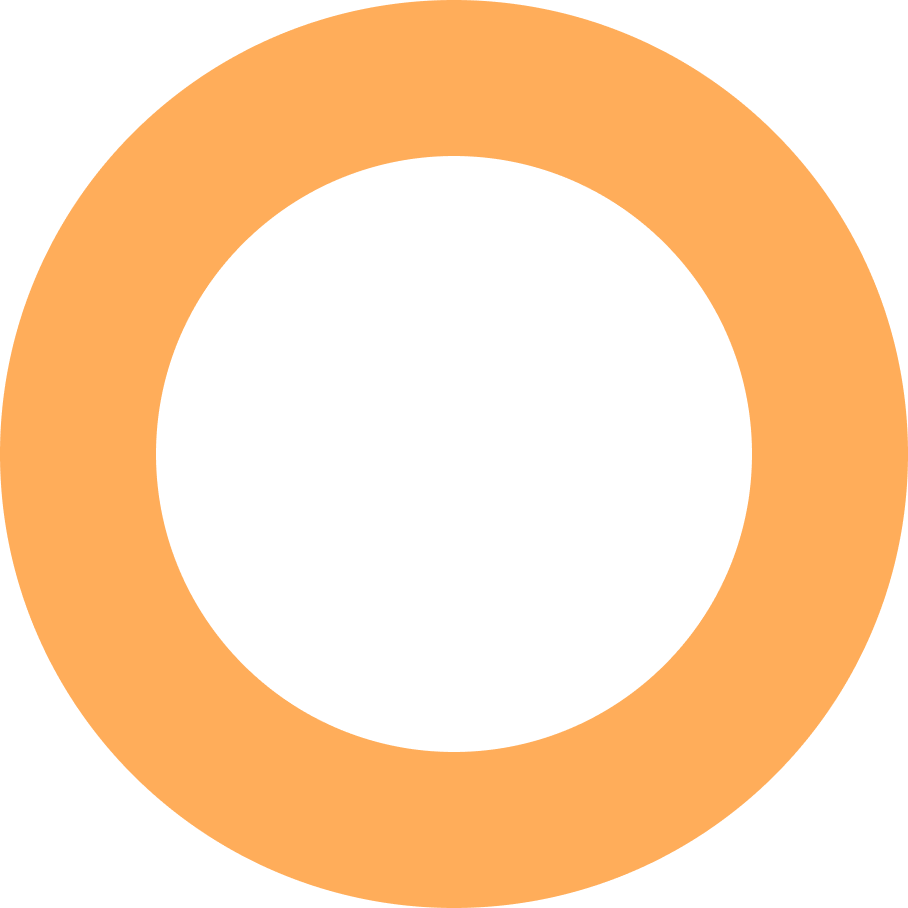
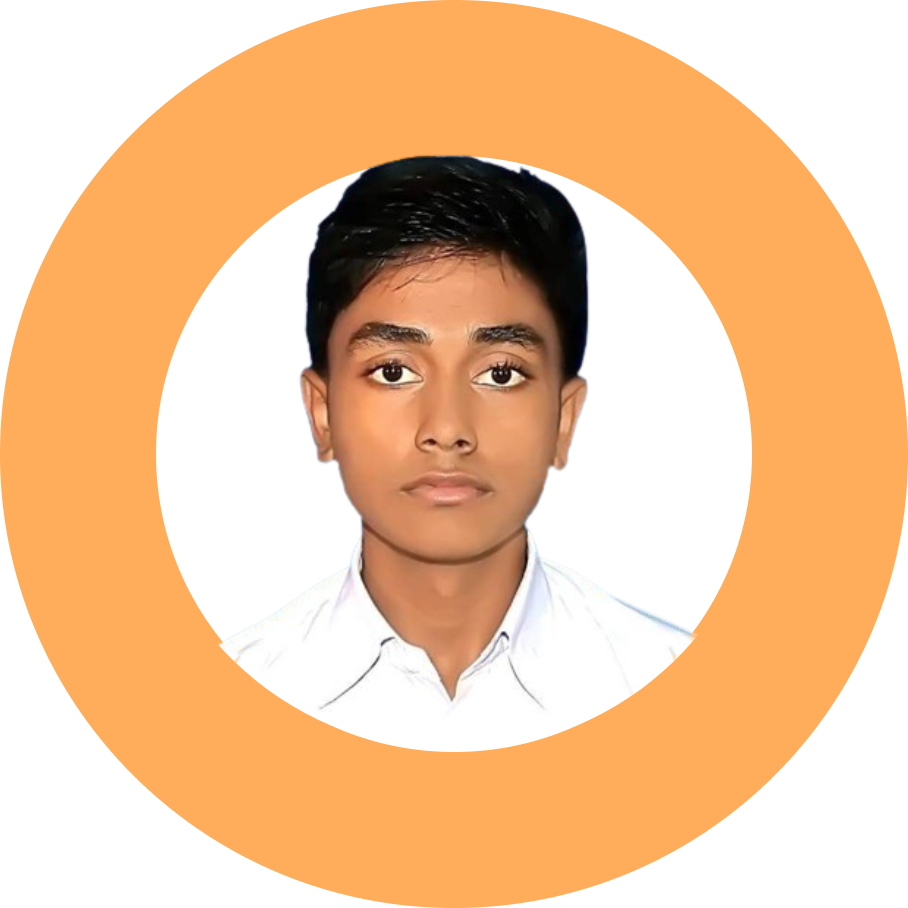
added images

diff --git a/index.html b/index.html
@@ -21,7 +21,7 @@
                     
     </div> 
     <div class="half-width">
-          <img src="images/my-bg.png" height="250" width="215">
+          <img src="images/Atiqur.jpg" height="250" width="215">
           
     </div>
     </section>               
